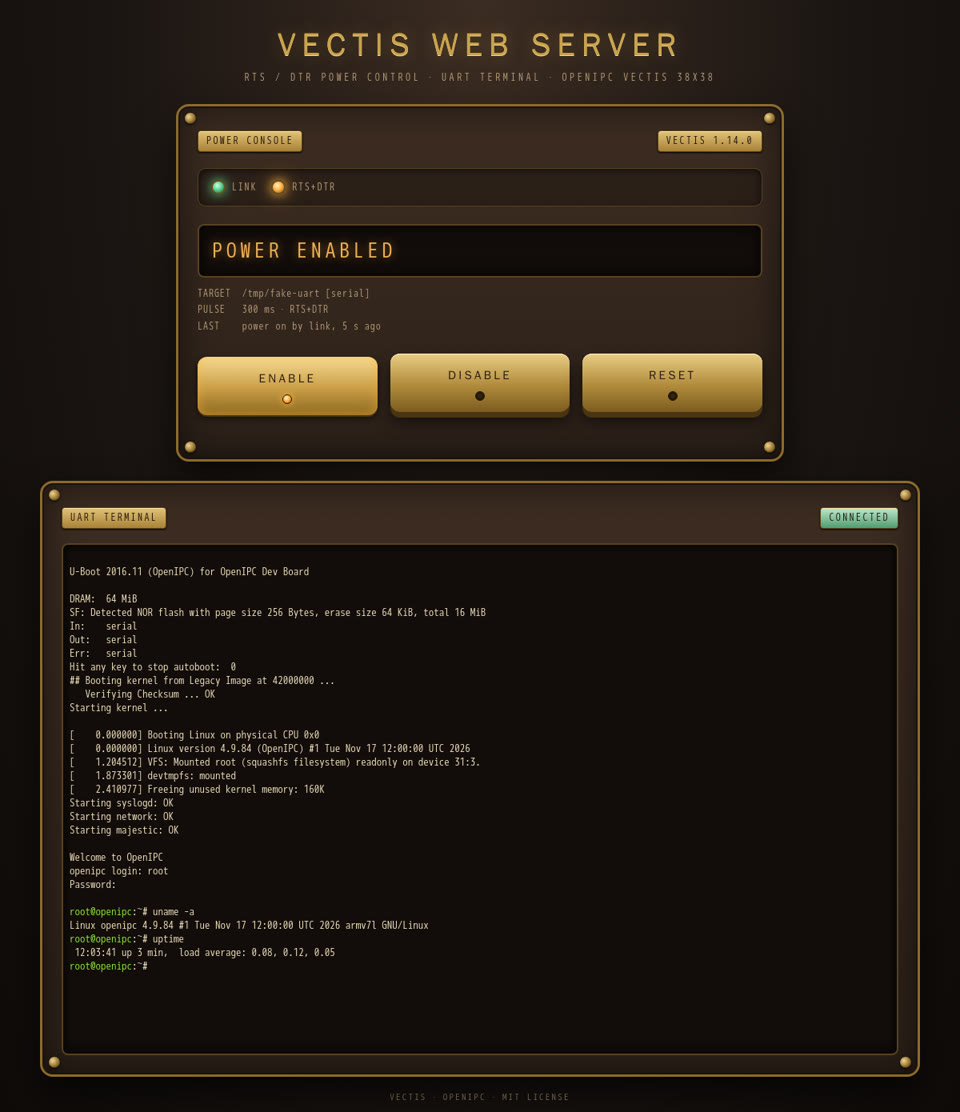
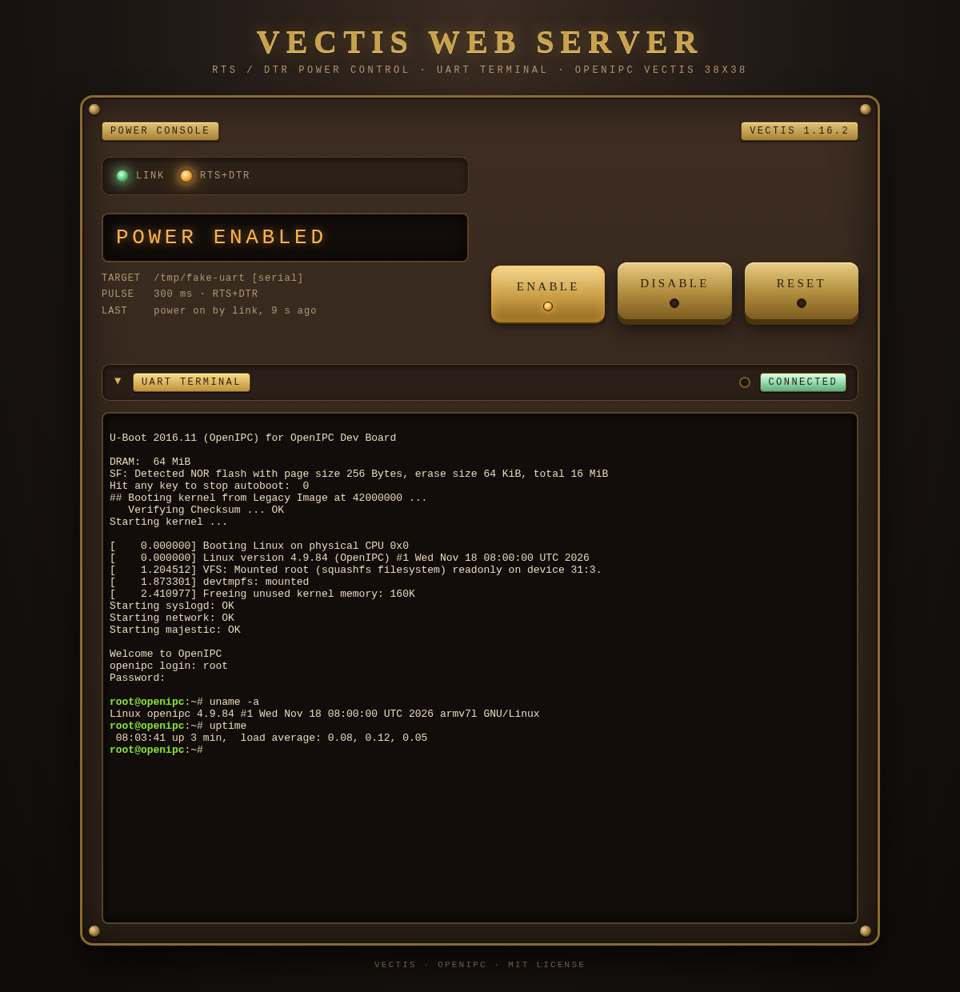
Web page: one panel, the UART terminal as a collapsible section (1.16.2) (#106)
Closes #105.

The `-w` page had two panels of different widths: "Power console" (760
px) and "UART terminal" (1100 px). Now it is one panel:

- about 1000 px wide; lamps and readout on the left, the three buttons
on the right; one column under 760 px;
- a "UART terminal" bar at the bottom (a `<button>`, `aria-expanded`)
opens and closes the terminal inside the panel; closed by default;
- xterm.js and the WebSocket start on the first opening and stay, so
output collects while the section is closed; a page that never opens it
takes no terminal slot (`/status` `terminals` stays 0);
- while closed, a lamp on the bar lights on new output and goes out on
opening;
- the open/closed choice is kept in `localStorage` (wrapped in
try/catch: without storage it just starts closed);
- `make WEBTERM=0`: no bar, the page as before but one width.

The Android terminal screen is unchanged. Screenshots in the three
READMEs retaken on 1.16.2 (closed and opened), README text updated.

**Before:** two panels, 760 px and 1100 px, the terminal always open and
connected.
**After:**

| closed | opened |
|---|---|
|
![closed](https://raw.githubusercontent.com/OpenIPC/vectis/web-one-panel/screenshots/web-power-console.jpg)
|
![opened](https://raw.githubusercontent.com/OpenIPC/vectis/web-one-panel/screenshots/web-terminal.jpg)
|

Checked locally (`compot/cross`, headless Chromium via puppeteer against
a pty): build without warnings with default, `WEBTERM=0` and `USB=0`;
[…]

Changed region(s): [[0.0312, 0.0312, 0.9688, 1.0], [0.2812, 0.8125, 0.4375, 0.875]]

diff --git a/vectis.c b/vectis.c
@@ -113,7 +113,7 @@
 #define CPC_STOP_1   1
 #define CPC_STOP_2   2
 
-#define PROGRAM_VERSION      "1.16.1"
+#define PROGRAM_VERSION      "1.16.2"
 #define PROGRAM_RELEASE_DATE "2026-11-18"
 
 #define RECONNECT_DELAY_S 5
@@ -1141,7 +1141,7 @@ static const char web_page[] =
     "body{margin:0;min-height:100vh;background:radial-gradient(ellipse at 50% 0,#3b2c22 0,#1a1512 55%,#0f0b09 100%);color:var(--ink);font-family:Georgia,'Times New Roman',serif;display:flex;flex-direction:column;align-items:center;padding:28px 12px}\n"
     "h1{font-size:clamp(22px,4.5vw,40px);letter-spacing:.2em;text-transform:uppercase;margin:0 0 6px;text-align:center;color:var(--brass);text-shadow:0 1px 0 #f3d78a,0 -1px 0 #3d2a0c,0 0 22px rgba(201,162,77,.35)}\n"
     ".sub{font-family:'Courier New',monospace;font-size:12px;color:var(--dim);letter-spacing:.3em;text-transform:uppercase;margin-bottom:24px;text-align:center}\n"
-    ".panel{position:relative;width:min(760px,100%);background:linear-gradient(180deg,var(--panel2),var(--panel));border:3px solid var(--brass2);border-radius:16px;box-shadow:inset 0 0 0 2px #1a1210,inset 0 0 50px rgba(0,0,0,.6),0 24px 48px rgba(0,0,0,.65);padding:30px 24px 24px}\n"
+    ".panel{position:relative;width:min(1000px,100%);background:linear-gradient(180deg,var(--panel2),var(--panel));border:3px solid var(--brass2);border-radius:16px;box-shadow:inset 0 0 0 2px #1a1210,inset 0 0 50px rgba(0,0,0,.6),0 24px 48px rgba(0,0,0,.65);padding:30px 24px 24px}\n"
     ".rivet{position:absolute;width:14px;height:14px;border-radius:50%;background:radial-gradient(circle at 35% 35%,#f1d38b,#8c6a2a 60%,#3a2a10);box-shadow:0 1px 2px #000,inset 0 -1px 1px rgba(0,0,0,.5)}\n"
     ".rivet.tl{top:8px;left:8px}.rivet.tr{top:8px;right:8px}.rivet.bl{bottom:8px;left:8px}.rivet.br{bottom:8px;right:8px}\n"
     ".plate{font-family:'Courier New',monospace;font-size:12px;letter-spacing:.2em;text-transform:uppercase;color:#2a1c10;background:linear-gradient(180deg,#e2c377,#a88237);border:1px solid #5b4416;border-radius:4px;padding:4px 10px;display:inline-block;box-shadow:inset 0 1px 0 #fbe6a8,0 1px 2px #000}\n"
@@ -1154,6 +1154,9 @@ static const char web_page[] =
     ".bulb.bad{background:radial-gradient(circle at 40% 35%,#ffd0c4,var(--red) 45%,#5a1a0e);box-shadow:0 0 14px var(--red);animation:blink 1.2s infinite}\n"
     "@keyframes blink{50%{box-shadow:0 0 2px var(--red)}}\n"
     ".mid{margin-top:22px}\n"
+    /* Wide screens: lamps and readout on the left, the buttons on the right. */
+    ".deck{display:grid;grid-template-columns:minmax(0,1fr) minmax(0,1fr);gap:0 28px;align-items:end}\n"
+    "@media (max-width:760px){.deck{display:block}}\n"
     ".readout{font-family:'Courier New',monospace}\n"
     ".state{font-size:clamp(18px,3vw,26px);letter-spacing:.18em;text-transform:uppercase;color:var(--amber);text-shadow:0 0 12px rgba(255,179,71,.5);padding:14px 16px;border:2px solid #574123;border-radius:8px;background:#120d0a;box-shadow:inset 0 0 20px rgba(0,0,0,.8);transition:color .3s}\n"
     ".state.off{color:var(--dim);text-shadow:none}\n"
@@ -1177,10 +1180,16 @@ static const char web_page[] =
     ".log{font-family:'Courier New',monospace;font-size:12px;color:var(--dim);margin-top:18px;min-height:16px;letter-spacing:.08em}\n"
     ".foot{margin-top:18px;font-family:'Courier New',monospace;font-size:11px;color:var(--foot);letter-spacing:.2em;text-transform:uppercase;text-align:center}\n"
 #ifdef VECTIS_WEBTERM
-    ".panel.term{width:min(1100px,100%);margin-top:24px}\n"
+    /* The terminal: a bar that opens a section in the same panel (#105). */
+    ".tbar{display:flex;align-items:center;gap:12px;width:100%;margin-top:22px;padding:10px 14px;border:1px solid #574123;border-radius:10px;background:rgba(0,0,0,.25);box-shadow:inset 0 2px 8px rgba(0,0,0,.6);color:var(--dim);font:inherit;cursor:pointer;text-align:left}\n"
+    ".tbar:hover{filter:brightness(1.12)}\n"
+    ".tbar:focus-visible{outline:2px solid var(--brass);outline-offset:2px}\n"
+    ".tbar .arrow{display:inline-block;width:12px;color:var(--brass);transition:transform .2s}\n"
+    ".tbar[aria-expanded=true] .arrow{transform:rotate(90deg)}\n"
+    ".tbar .bulb{width:14px;height:14px;margin-left:auto}\n"
     ".plate.on{background:linear-gradient(180deg,#bfe9cf,#4f9c6e)}\n"
     ".plate.bad{background:linear-gradient(180deg,#f0b7a8,#a8442c)}\n"
-    ".screen{margin-top:18px;height:min(62vh,640px);padding:8px;border:2px solid #574123;border-radius:8px;background:#120d0a;box-shadow:inset 0 0 20px rgba(0,0,0,.8)}\n"
+    ".screen{margin-top:14px;height:min(62vh,640px);padding:8px;border:2px solid #574123;border-radius:8px;background:#120d0a;box-shadow:inset 0 0 20px rgba(0,0,0,.8)}\n"
     "#term{height:100%}\n"
 #endif
     "</style>\n"
@@ -1198,6 +1207,8 @@ static const char web_page[] =
     "<div class='panel'>\n"
     "<span class='rivet tl'></span><span class='rivet tr'></span><span class='rivet bl'></span><span class='rivet br'></span>\n"
     "<div class='top'><span class='plate'>Power console</span><span class='plate' id='ver'>vectis</span></div>\n"
+    "<div class='deck'>\n"
+    "<div>\n"
     "<div class='lamps'>\n"
     "<div class='lamp'><span class='bulb' id='l-link'></span><span id='t-link'>Link</span></div>\n"
     "<div class='lamp'><span class='bulb' id='l-lines'></span>RTS+DTR</div>\n"
@@ -1205,20 +1216,20 @@ static const char web_page[] =
     "<div class='mid'>\n"
     "<div class='readout'><div class='state off' id='state'>Stand by</div><div class='meta' id='meta'>Reading the console&hellip;</div></div>\n"
     "</div>\n"
+    "</div>\n"
     "<div class='btns'>\n"
     "<button class='btn' id='b-on' onclick='act(this)' disabled>Enable<span class='ind'></span></button>\n"
     "<button class='btn' id='b-off' onclick='act(this)' disabled>Disable<span class='ind'></span></button>\n"
     "<button class='btn reset' id='b-reset' onclick='act(this)' disabled>Reset<span class='gear'>&#9881;</span><span class='ind'></span></button>\n"
     "</div>\n"
+    "</div>\n"
     "<div class='log' id='log'>&nbsp;</div>\n"
-    "</div>\n"
 #ifdef VECTIS_WEBTERM
-    "<div class='panel term'>\n"
-    "<span class='rivet tl'></span><span class='rivet tr'></span><span class='rivet bl'></span><span class='rivet br'></span>\n"
-    "<div class='top'><span class='plate'>UART terminal</span><span class='plate' id='t-state'>Connecting</span></div>\n"
-    "<div class='screen'><div id='term'></div></div>\n"
-    "</div>\n"
+    "<button class='tbar' id='t-bar' aria-expanded='false' aria-controls='t-body'><span class='arrow'>&#9656;</span><span class='plate'>UART terminal</span>"
+    "<span class='bulb' id='t-act' title='New output'></span><span class='plate' id='t-state'>Closed</span></button>\n"
+    "<div class='screen' id='t-body' hidden><div id='term'></div></div>\n"
 #endif
+    "</div>\n"
     "<div class='foot'>Vectis &middot; OpenIPC &middot; MIT License</div>\n"
     "<script>\n"
     "var busy=false,lastSeq=-1;\n"
@@ -1284,13 +1295,11 @@ static const char web_page[] =
     "<script src='" WT_ASSET_JS "'></script>\n"
     "<script>\n"
     "(function(){\n"
-    " var st=$('t-state');\n"
+    " var st=$('t-state'),bar=$('t-bar'),body=$('t-body'),term=null,fit=null,ws=null,enc=new TextEncoder(),KEY='vectis.terminal';\n"
     " function tstate(t,c){st.textContent=t;st.className='plate'+(c?' '+c:'')}\n"
-    " if(!window.Terminal||!window.FitAddon){tstate('No terminal','bad');return}\n"
-    " var term=new Terminal({cursorBlink:true,convertEol:true,fontSize:13,scrollback:5000,\n"
-    "  theme:{background:'#120d0a',foreground:'#e8d9b8',cursor:'#ffb347',cursorAccent:'#120d0a',selectionBackground:'rgba(201,162,77,.4)'}});\n"
-    " var fit=new FitAddon.FitAddon();term.loadAddon(fit);term.open($('term'));fit.fit();\n"
-    " var ws=null,enc=new TextEncoder();\n"
+    /* Browser storage may be missing or refuse (private mode): then the
+     * section just starts closed. */
+    " function remember(v){try{localStorage.setItem(KEY,v?'open':'closed')}catch(e){}}\n"
     " function send(b){if(ws&&ws.readyState===1)for(var i=0;i<b.length;i+=2048)ws.send(b.subarray(i,i+2048))}\n"
     /* The token from /status proves the page is this server's own. */
     " function retry(){tstate('Reconnecting','bad');setTimeout(connect,2000)}\n"
@@ -1299,14 +1308,34 @@ static const char web_page[] =
     "   ws=new WebSocket((location.protocol==='https:'?'wss':'ws')+'://'+location.host+'/ws/terminal?token='+s.terminal_token);\n"
     "   ws.binaryType='arraybuffer';\n"
     "   ws.onopen=function(){term.reset();tstate('Connected','on')};\n"
-    "   ws.onmessage=function(e){if(typeof e.data!=='string')term.write(new Uint8Array(e.data))};\n"
+    "   ws.onmessage=function(e){if(typeof e.data!=='string'){term.write(new Uint8Array(e.data));if(body.hidden)bulb('t-act','on')}};\n"
     "   ws.onclose=retry;\n"
     "  }).catch(retry);\n"
     " }\n"
-    " term.onData(function(d){send(enc.encode(d))});\n"
-    " term.onBinary(function(d){var b=new Uint8Array(d.length);for(var i=0;i<d.length;i++)b[i]=d.charCodeAt(i)&255;send(b)});\n"
-    " addEventListener('resize',function(){fit.fit()});\n"
-    " connect();\n"
+    /* The terminal and its WebSocket start on the first opening and stay:
+     * a closed section keeps collecting output, a page that never opens
+     * it takes no terminal on the server. */
+    " function start(){\n"
+    "  if(!window.Terminal||!window.FitAddon){tstate('No terminal','bad');return false}\n"
+    "  term=new Terminal({cursorBlink:true,convertEol:true,fontSize:13,scrollback:5000,\n"
+    "   theme:{background:'#120d0a',foreground:'#e8d9b8',cursor:'#ffb347',cursorAccent:'#120d0a',selectionBackground:'rgba(201,162,77,.4)'}});\n"
+    "  fit=new FitAddon.FitAddon();term.loadAddon(fit);term.open($('term'));\n"
+    "  term.onData(function(d){send(enc.encode(d))});\n"
+    "  term.onBinary(function(d){var b=new Uint8Array(d.length);for(var i=0;i<d.length;i++)b[i]=d.charCodeAt(i)&255;send(b)});\n"
+    "  addEventListener('resize',function(){if(!body.hidden)fit.fit()});\n"
+    "  tstate('Connecting');connect();return true;\n"
+    " }\n"
+    " function show(open,keep){\n"
+    "  body.hidden=!open;bar.setAttribute('aria-expanded',open?'true':'false');\n"
+    "  if(keep)remember(open);\n"
+    "  if(!open)return;\n"
+    "  bulb('t-act','');\n"
+    "  if(!term&&!start())return;\n"
+    "  fit.fit();if(keep)term.focus();\n"
+    " }\n"
+    " bar.onclick=function(){show(body.hidden,true)};\n"
+    " var was=null;try{was=localStorage.getItem(KEY)}catch(e){}\n"
+    " if(was==='open')show(true,false);\n"
     "})();\n"
     "</script>\n"
 #endif

diff --git a/tests/test_vectis.py b/tests/test_vectis.py
@@ -543,6 +543,12 @@ def test_web_terminal(tmp):
         check("/xterm-5.5.0.js" in page and "/xterm-5.5.0.css" in page and "/ws/terminal" in page,
               "web page: loads the built-in xterm.js, opens /ws/terminal")
         check("cdn" not in page.lower(), "web page: nothing from a CDN")
+        # One panel; the terminal is a section behind a bar, closed by
+        # default, opened (and its WebSocket started) by the page script.
+        check(page.count("class='panel'") == 1 and "panel term" not in page,
+              "web page: one panel")
+        check("id='t-bar' aria-expanded='false'" in page and "id='t-body' hidden" in page,
+              "web page: the terminal section starts closed")
         for asset, head, ctype in (("/xterm-5.5.0.js", b"!function", "text/javascript"),
                                    ("/xterm-5.5.0.css", b"/**", "text/css")):
             code, hdr, body = http_raw(wport, asset)

diff --git a/README.md b/README.md
@@ -706,10 +706,10 @@ makes the process reopen the link automatically; it requires `-u`.
 ## Web power console (`-w`)
 
 <p align="center">
-  <img src="screenshots/web-power-console.jpg" alt="Vectis web power console: link and RTS+DTR lamps, state display, Enable / Disable / Reset buttons" width="720">
+  <img src="screenshots/web-power-console.jpg" alt="Vectis web page: link and RTS+DTR lamps, state display, Enable / Disable / Reset buttons, the UART terminal bar closed" width="720">
 </p>
 
-<p align="center"><sub>vectis 1.10.0 with <code>-w 8080 -l 2021 -t 300</code>, a pseudo-terminal standing in for the UART; a second <code>vectis</code> is connected to the <code>-l</code> port.</sub></p>
+<p align="center"><sub>vectis 1.16.2 with <code>-w 19081 -l 19021 -t 300</code>, a pseudo-terminal standing in for the UART; the terminal section is closed.</sub></p>
 
 `-w PORT` (or `-w ADDR:PORT` to listen on one IPv4 address only) starts a
 built-in web server alongside the terminal session. It serves a single
@@ -804,13 +804,19 @@ down the `/power/` commands answer `503`; an unknown command answers
 ### UART terminal
 
 <p align="center">
-  <img src="screenshots/web-terminal.jpg" alt="Vectis web page: the power panel and, under it, the UART terminal with a boot log and a shell session" width="720">
+  <img src="screenshots/web-terminal.jpg" alt="Vectis web page: the power controls and, under them, the UART terminal opened, with a boot log and a shell session" width="720">
 </p>
 
-<p align="center"><sub>vectis 1.14.0 with <code>-w 19081 -l 19021 -t 300</code>, a pseudo-terminal standing in for the UART of an OpenIPC Dev Board; the two commands were typed in the page.</sub></p>
+<p align="center"><sub>vectis 1.16.2 with <code>-w 19081 -l 19021 -t 300</code>, a pseudo-terminal standing in for the UART of an OpenIPC Dev Board; the two commands were typed in the page.</sub></p>
 
-Under the power panel the page shows a terminal on the same UART:
-everything the device prints, and a keyboard into it. It is
+At the bottom of the panel, under the power controls, the page has a
+terminal on the same UART: everything the device prints, and a keyboard
+into it. It is closed by default; a click on the "UART terminal" bar opens
+and closes it, and the browser remembers which (`localStorage`). The
+connection starts on the first opening and stays, so output keeps
+collecting while the section is closed; a lamp on the bar shows that new
+output arrived. A page that never opens the terminal takes no terminal on
+the server. It is
 [xterm.js](https://github.com/xtermjs/xterm.js) 5.5.0, built into
 `vectis` and served by it (`/xterm-5.5.0.js`, `/xterm-5.5.0.css`,
 gzipped, about 70 KB), so the browser needs no internet; `make WEBTERM=0`

diff --git a/README.zh-CN.md b/README.zh-CN.md
@@ -677,10 +677,10 @@ nc 192.168.1.20 2021                        # 原始模式，逐行发送
 ## Web 电源控制台（`-w`）
 
 <p align="center">
-  <img src="screenshots/web-power-console.jpg" alt="vectis Web 电源控制台：link 与 RTS+DTR 指示灯、状态显示屏、Enable / Disable / Reset 按钮" width="720">
+  <img src="screenshots/web-power-console.jpg" alt="vectis Web 页面：link 与 RTS+DTR 指示灯、状态显示屏、Enable / Disable / Reset 按钮，UART 终端栏处于折叠状态" width="720">
 </p>
 
-<p align="center"><sub>vectis 1.10.0，参数为 <code>-w 8080 -l 2021 -t 300</code>，用伪终端代替 UART；另一个 <code>vectis</code> 已连接到 <code>-l</code> 端口。</sub></p>
+<p align="center"><sub>vectis 1.16.2，参数为 <code>-w 19081 -l 19021 -t 300</code>，用伪终端代替 UART；终端处于折叠状态。</sub></p>
 
 `-w PORT`（或 `-w ADDR:PORT`，仅在一个 IPv4 地址上监听）会在终端会话
 之外启动一个内置 Web 服务器。它只提供一个页面，
@@ -773,13 +773,15 @@ Reset 按钮点亮、显示屏显示 `Resetting`，日志行中会注明
 ### UART 终端
 
 <p align="center">
-  <img src="screenshots/web-terminal.jpg" alt="vectis Web 页面：电源面板及其下方的 UART 终端，显示启动日志和 shell 会话" width="720">
+  <img src="screenshots/web-terminal.jpg" alt="vectis Web 页面：电源控制及其下方已展开的 UART 终端，显示启动日志和 shell 会话" width="720">
 </p>
 
-<p align="center"><sub>vectis 1.14.0，参数 <code>-w 19081 -l 19021 -t 300</code>，用伪终端代替 OpenIPC Dev Board 的 UART；两条命令是在页面中输入的。</sub></p>
+<p align="center"><sub>vectis 1.16.2，参数 <code>-w 19081 -l 19021 -t 300</code>，用伪终端代替 OpenIPC Dev Board 的 UART；两条命令是在页面中输入的。</sub></p>
 
-页面在电源面板下方显示同一 UART 的终端：设备输出的一切，以及向设备输入的
-键盘。它是 [xterm.js](https://github.com/xtermjs/xterm.js) 5.5.0，内置于
+面板底部、电源控制下方是同一 UART 的终端：设备输出的一切，以及向设备输入的
+键盘。默认折叠；点击“UART terminal”栏可展开或折叠，浏览器会记住该选择
+（`localStorage`）。连接在首次展开时建立并保持，因此折叠时输出仍在累积；栏上的
+指示灯表示有新的输出。从未展开终端的页面不占用服务器上的终端。它是 [xterm.js](https://github.com/xtermjs/xterm.js) 5.5.0，内置于
 `vectis` 并由其自身提供（`/xterm-5.5.0.js`、`/xterm-5.5.0.css`，gzip 压缩，
 约 70 KB），因此浏览器无需访问互联网；`make WEBTERM=0` 不包含它。
 

diff --git a/CHANGELOG.md b/CHANGELOG.md
@@ -6,6 +6,19 @@ rebuilt from every push to `master`; this file is the change history. Versions
 up to 1.3.2 are those of the original UART bridge, now `vectis-bootrom.c`; from 1.6.0 on,
 `vectis` is the former `vectis-cli`.
 
+## 1.16.2 — 2026-11-18
+
+The `-w` page is one panel (#105):
+
+- The power console and the UART terminal were two panels of different widths; now one
+  panel, about 1000 px wide, with the lamps and the readout on the left and the buttons on
+  the right (one column on a narrow screen).
+- The terminal is a section at the bottom of the panel, closed by default; a click on its
+  "UART terminal" bar opens and closes it. The WebSocket opens on the first opening and
+  stays, so output collects while the section is closed, and a lamp on the bar shows that
+  new output arrived. A page that never opens the terminal takes no terminal slot.
+- The browser remembers whether the section was open (`localStorage`).
+
 ## 1.16.1 — 2026-11-18
 
 Android fixes:
